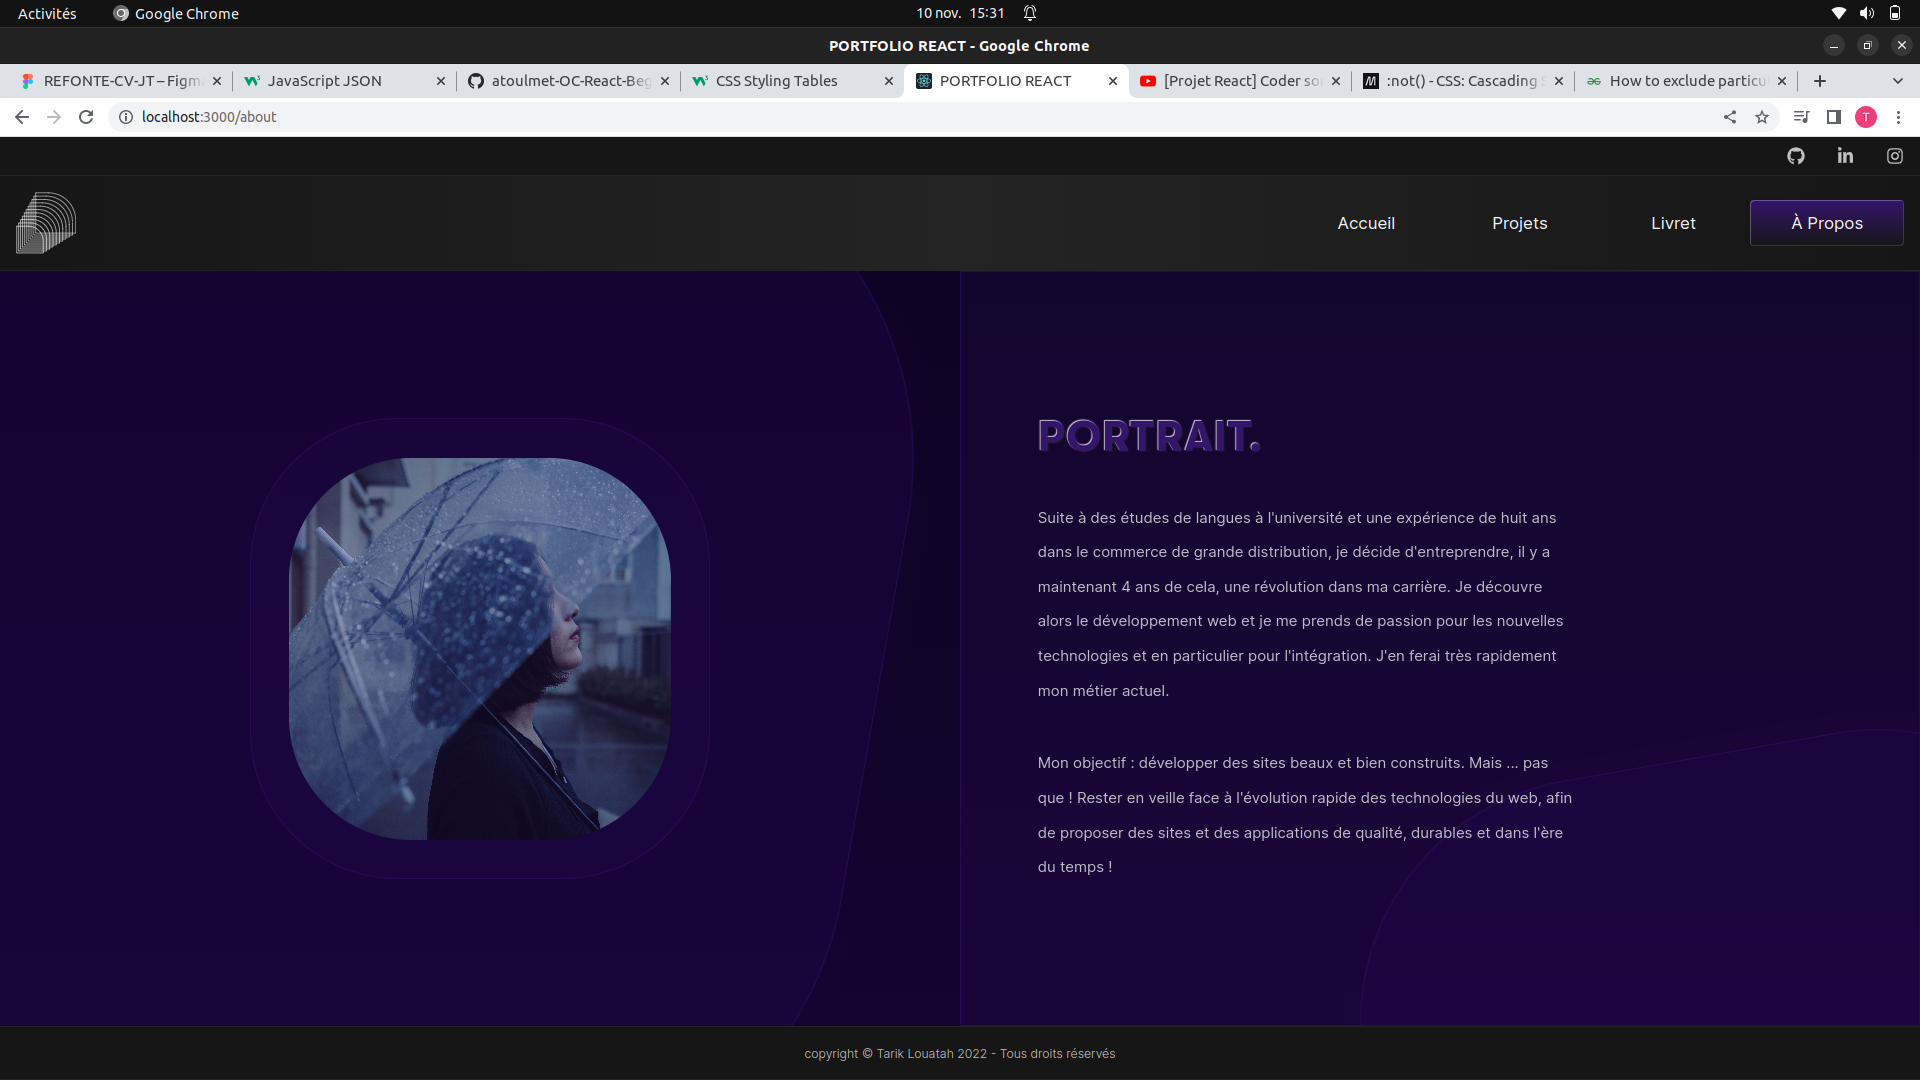
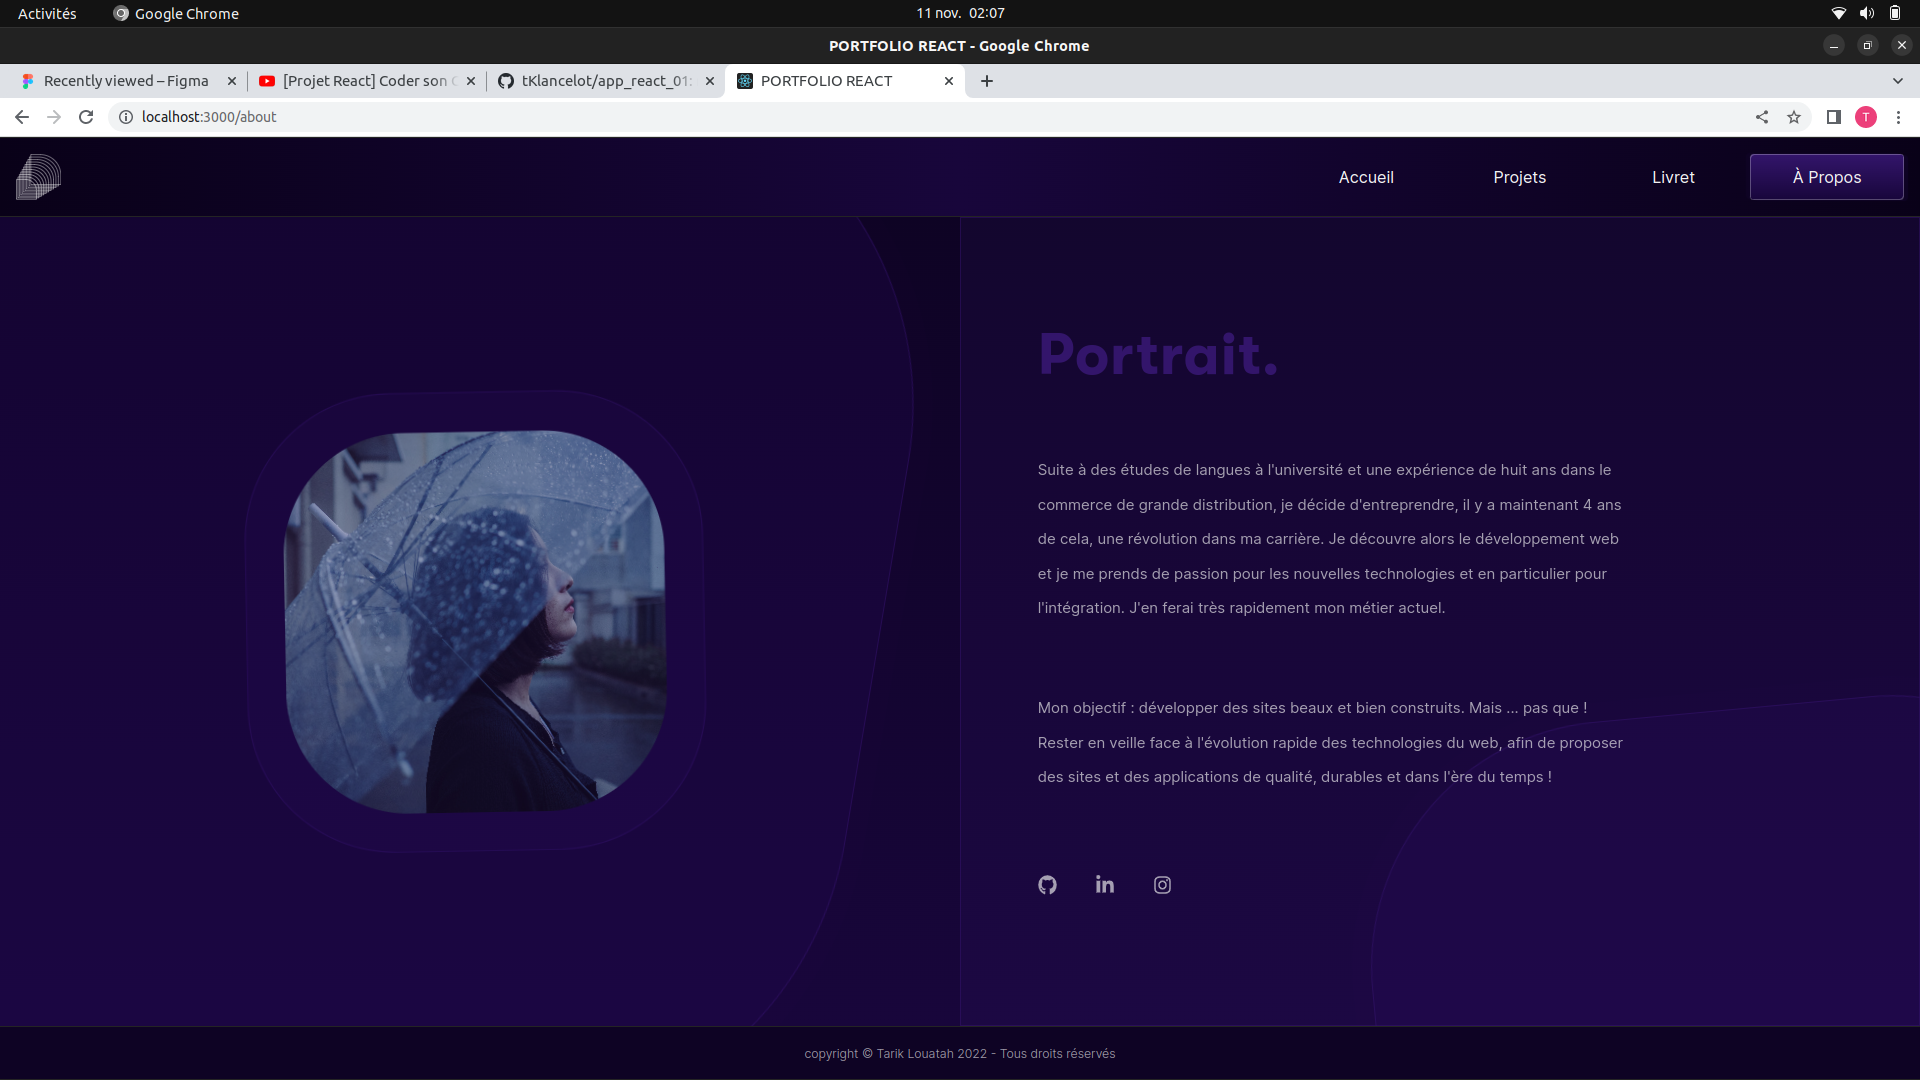
maj screenshots
ok

diff --git a/src/App.css b/src/App.css
@@ -79,8 +79,8 @@ a {
   border-radius: 4px;
 }
 .navigation__body a.is-active {
-  background: linear-gradient(180deg, #33156b, #161616);
-  box-shadow: 1px 1px 0px inset rgba(255, 255, 255, 0.2666666667), -1px -1px 0px inset rgba(255, 255, 255, 0.1333333333), -4px -1px 1px #161616, 4px 1px 1px #161616;
+  background: linear-gradient(180deg, #33156b, #18063b);
+  box-shadow: 1px 1px 0px inset rgba(255, 255, 255, 0.2666666667), -1px -1px 0px inset rgba(255, 255, 255, 0.2666666667), -4px -1px 1px #0e0324, 4px 1px 1px #0e0324;
 }
 
 .details__panel__frame__footer a {
@@ -94,12 +94,14 @@ a {
   outline: 1vw solid rgba(55, 21, 117, 0.0156862745);
   text-transform: capitalize;
   border-radius: 32px;
+  background-color: #33156b;
   width: 6.4vw;
   height: 2.4vw;
   padding: 0.5vw;
 }
 .details__panel__frame__footer a:hover {
-  background-color: #33156b;
+  border: 1px solid #33156b;
+  background-color: transparent;
   color: #f2f2f2;
 }
 
@@ -122,7 +124,7 @@ h1, h2 {
 h3, h4, h6 {
   color: rgba(242, 242, 242, 0.6431372549);
   font-weight: unset;
-  font-family: "Inter Light";
+  font-family: "Inter Regular";
 }
 
 .home-banner h1 {
@@ -315,14 +317,14 @@ input, label {
   display: flex;
   align-items: center;
   justify-content: center;
-  background-color: #161616;
+  background-color: #0e0324;
   height: 2.8vw;
 }
 
 .navigation__body {
   border-bottom: 1px solid #242424;
   border-top: 1px solid #242424;
-  background: linear-gradient(90deg, #161616, #242424, #161616);
+  background: linear-gradient(90deg, #090118, #18063b, #090118);
   display: flex;
   align-items: center;
   justify-content: space-between;
@@ -482,7 +484,7 @@ input, label {
   display: grid;
   grid-template-columns: repeat(3, 1fr);
   grid-gap: 2vw;
-  padding: 2vw 8vw;
+  padding: 0 6vw;
   place-content: center;
 }
 .project-carousel__footer {

diff --git a/src/pages/About.js b/src/pages/About.js
@@ -45,7 +45,7 @@ const About = () => {
             <div className="profile__body__right">
               <div className="content-frame">
                 {/* <h2>Portrait.</h2> */}
-                <h2>Qui suis-je ?</h2>
+                <h2>Portrait.</h2>
                 <p>Suite à des études de langues à l'université et une expérience de huit ans dans le commerce de grande distribution, je décide d'entreprendre, il y a maintenant 4 ans de cela, une révolution dans ma carrière. Je découvre alors le développement web et je me prends de passion pour les nouvelles technologies et en particulier pour l'intégration. J'en ferai très rapidement mon métier actuel.</p>
                 <p>Mon objectif : développer des sites beaux et bien construits. Mais ... pas que ! Rester en veille face à l'évolution rapide des technologies du web, afin de proposer des sites et des applications de qualité, durables et dans l'ère du temps !</p>
               </div>

diff --git a/src/css/components/_links.scss b/src/css/components/_links.scss
@@ -16,8 +16,8 @@ a {
         }
 
         a.is-active {
-            background: linear-gradient(180deg, $secondary, $black);
-            box-shadow: 1px 1px 0px inset #fff4, -1px -1px 0px inset #fff2, -4px -1px 1px $black, 4px 1px 1px $black;
+            background: linear-gradient(180deg, $secondary, $secondary-dark);
+            box-shadow: 1px 1px 0px inset #fff4, -1px -1px 0px inset #fff4, -4px -1px 1px $secondary-darkest, 4px 1px 1px $secondary-darkest;
         }
     }
 }
@@ -30,11 +30,13 @@ a {
         @include simple-shadow;
         text-transform: capitalize;
         border-radius: 32px;
+        background-color: $secondary;
         width: 6.4vw;
         height: 2.4vw;
         padding: 0.5vw;
         &:hover{
-            background-color: $secondary;
+            border: 1px solid $secondary;
+            background-color: transparent;
             color:$primary;
         }
     }

diff --git a/src/css/utils/_mixins.scss b/src/css/utils/_mixins.scss
@@ -28,7 +28,7 @@
 }
 
 @mixin section-linear {
-    background: linear-gradient(90deg, $black, $dark-border, $black);
+    background: linear-gradient(90deg, $secondary-ultra, $secondary-dark, $secondary-ultra);
 }
 
 @mixin background-linear {

diff --git a/src/css/layouts/_footer.scss b/src/css/layouts/_footer.scss
@@ -3,7 +3,7 @@
         @include section-border;
         @include flex-center;
         justify-content: center;
-        background-color: $black;
+        background-color: $secondary-darkest;
         height: 2.8vw;
     }
 }

diff --git a/src/css/layouts/_project-carousel.scss b/src/css/layouts/_project-carousel.scss
@@ -19,7 +19,7 @@
         display: grid;
         grid-template-columns: repeat(3,1fr);
         grid-gap: $gap;
-        padding: $gap 8vw;
+        padding: 0 6vw;
         place-content:center;
     }
     &__footer{

diff --git a/src/css/utils/_variables.scss b/src/css/utils/_variables.scss
@@ -9,6 +9,7 @@ $secondary:#33156b;
 $secondary-medium:#230c4e;
 $secondary-dark:#18063b;
 $secondary-darkest:#0e0324;
+$secondary-ultra:#090118;
 
 $primary:#f2f2f2;
 $write-overlay:#f2f2f2a4;

diff --git a/src/css/components/_headings.scss b/src/css/components/_headings.scss
@@ -13,7 +13,7 @@ h1,h2{
 h3,h4,h6{
     color: $write-overlay;
     font-weight: unset;
-    font-family: $font-primary-light;
+    font-family: $font-primary;
 }
 
 // specific

diff --git a/README.md b/README.md
@@ -8,4 +8,4 @@
 * animation 3d
 * présentation d'objet 3d + objets 3d téléchargeables
 
-<img src="/public/screenshots/screen-one.png" width="384" height="216" />&emsp;&emsp;<img src="/public/screenshots/screen-two.png" width="384" height="216" />
+<img src="/public/screenshots/screen-one.png" width="384" height="216" />&emsp;&emsp;<img src="/public/screenshots/screen-two.png" width="384" height="216" />&emsp;&emsp;<img src="/public/screenshots/screen-three.png" width="384" height="216" />
